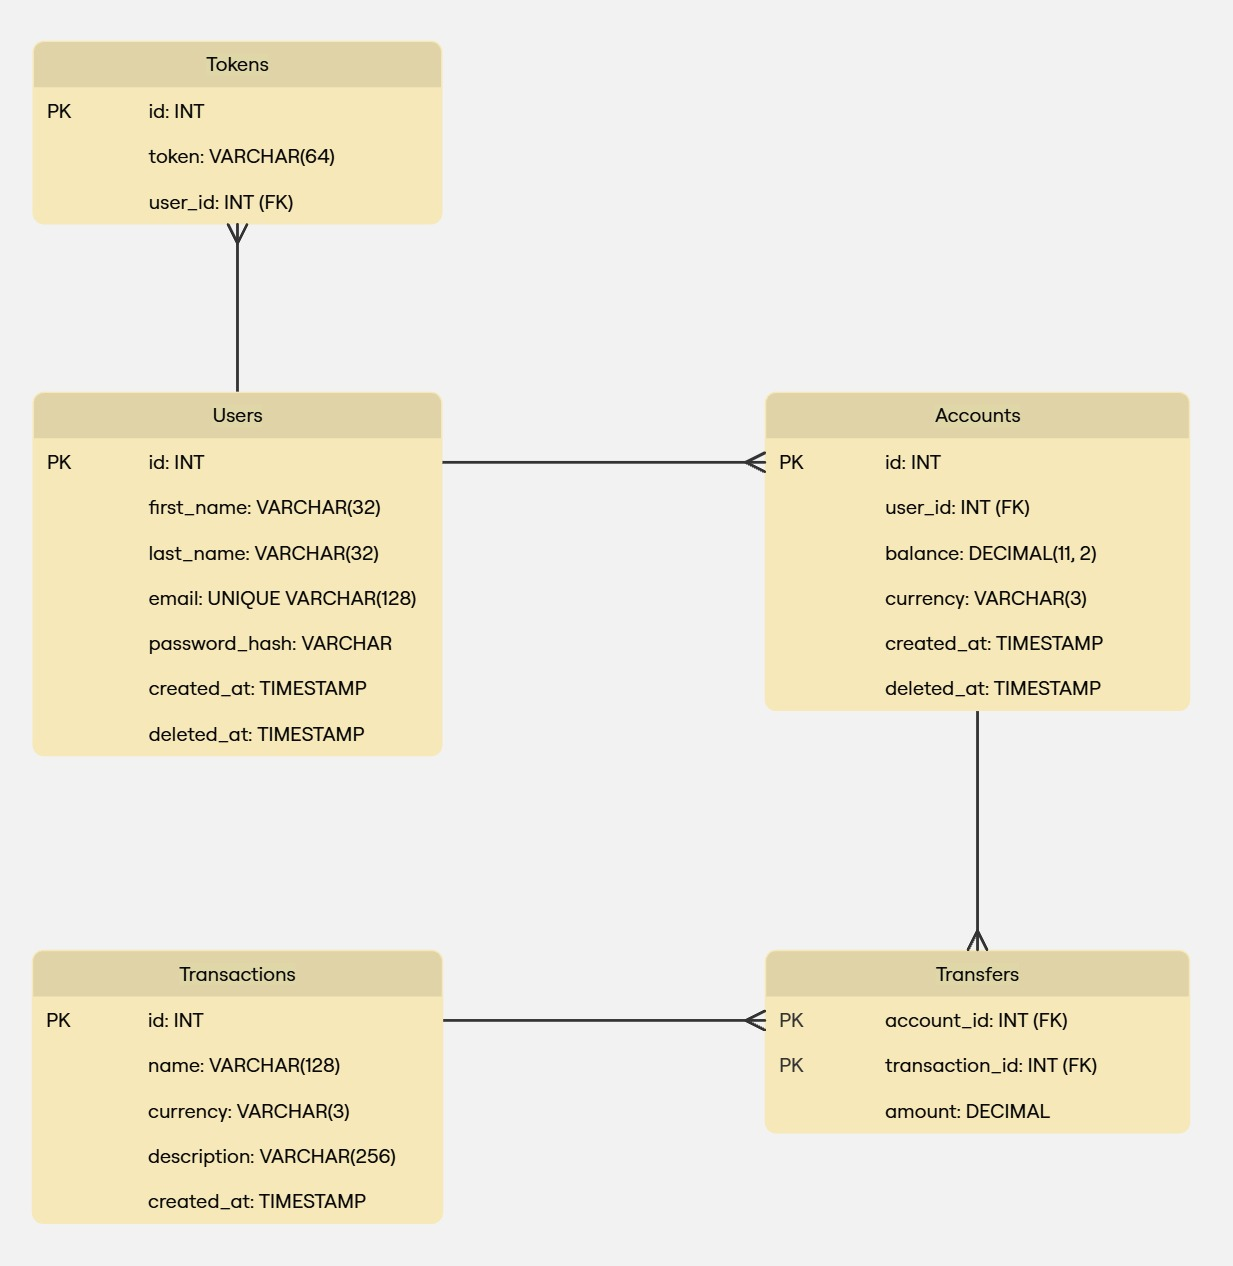
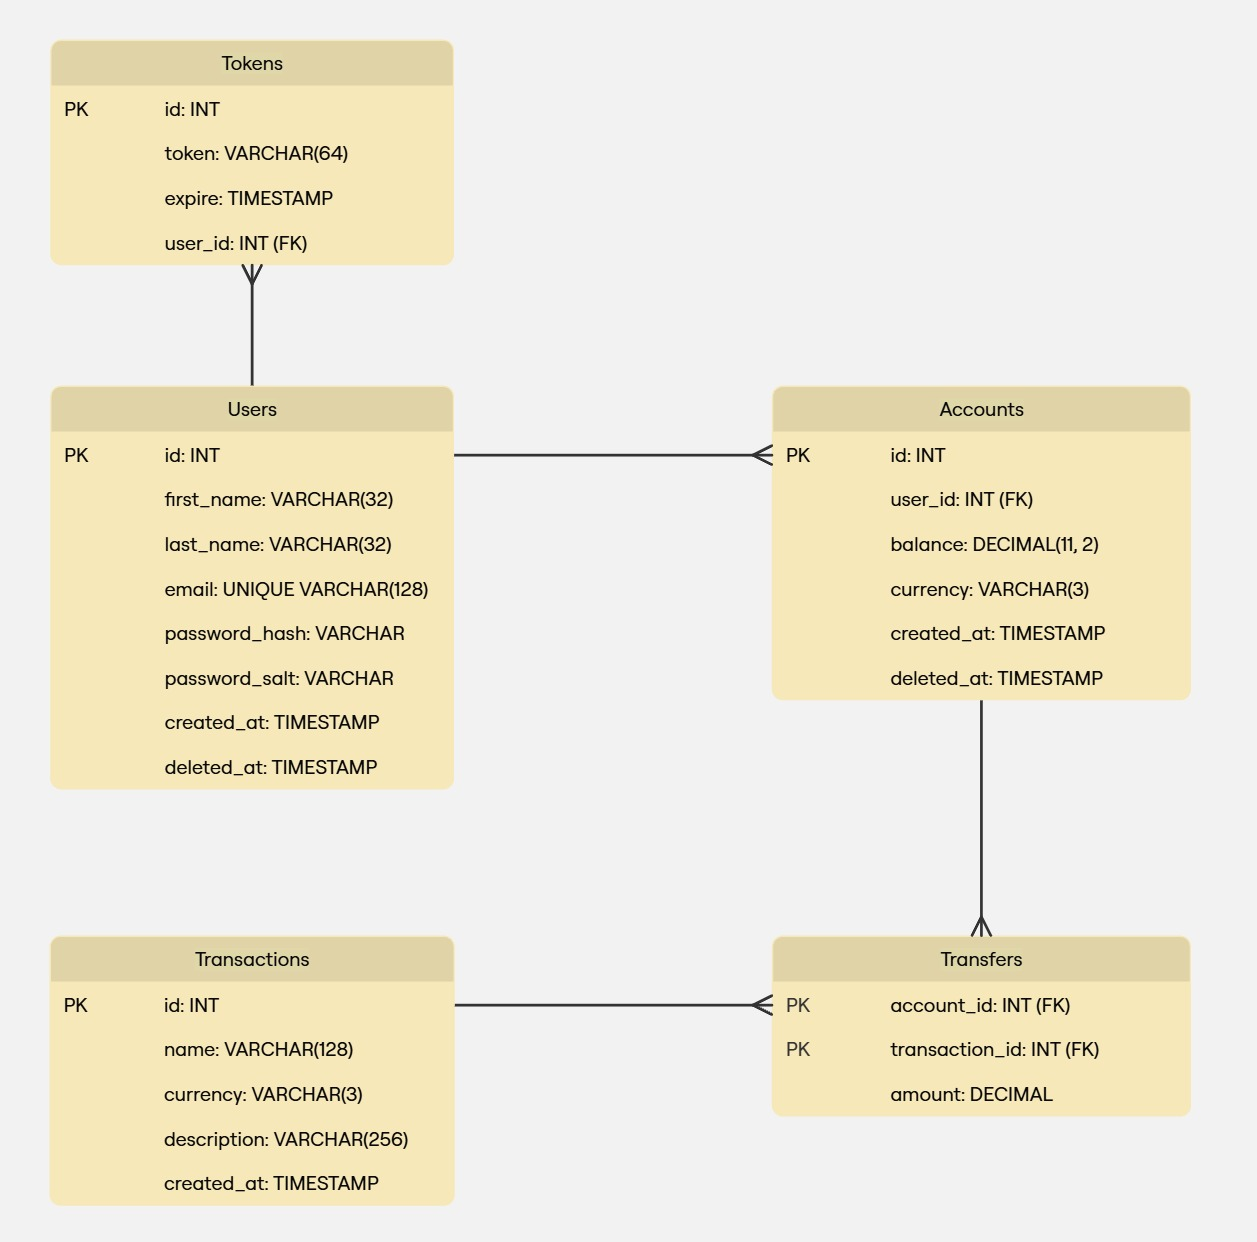
update ERD and schema.md

diff --git a/docs/schema.md b/docs/schema.md
@@ -6,7 +6,8 @@
 | Стовпець | Тип | Обмеження | Опис |
 |----------|-----|-----------|------|
 | id | INT | PRIMARY KEY | Ідентифікатор токена |
-| token | VARCHAR(64) | NOT NULL | Токен авторизації |
+| token | VARCHAR(64)  | NOT NULL | Токен авторизації |
+| expire | TIMESTAMP | NOT NULL | Дійсність токена |
 | user_id | INT | FOREIGN KEY, NOT NULL | Ідентифікатор користувача |
 
 Індекси:
@@ -27,6 +28,7 @@
 | last_name| VARCHAR(32) | NOT NULL | Прізвище користувача |
 | email | VARCHAR(128) | UNIQUE, NOT NULL | email користувача |
 | password_hash | VARCHAR | NOT NULL | Хешований пароль |
+| password_salt | VARCHAR | NOT NULL | Сіль для хешування пароля |
 | created_at | TIMESTAMP | DEFAULT NOW() | Час створення облікового запису |
 | deleted_at | TIMESTAMP | NULL | Мітка часу м'якого видалення |
 
